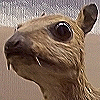
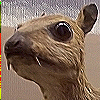
Program runs to the end. Now just fix it to do all the rows.

Changed region(s): [[0.0, 0.0, 0.03, 1.0]]

diff --git a/src/sharpener/sink.cpp b/src/sharpener/sink.cpp
@@ -19,6 +19,7 @@ void sink::entry() {
     std::cout << "Output image opened..." << endl;
 
     int i_rows = 0;
+    int j_rows = 0;
 
     data_ack.write(false);
 
@@ -34,6 +35,9 @@ void sink::entry() {
         input_reader.row_pointers[i_rows][0] = out_red.read();
         input_reader.row_pointers[i_rows][1] = out_green.read();
         input_reader.row_pointers[i_rows][2] = out_blue.read();
+        std::cout << "i = " << i_rows << "; Expected over calculated RGB:" << std::endl;
+        std::cout << "R = " << +reference_image.row_pointers[i_rows][0] << " G = " << +reference_image.row_pointers[i_rows][1] << " B = " << +reference_image.row_pointers[i_rows][2] << std::endl;
+        std::cout << "R = " << +input_reader.row_pointers[i_rows][0] << " G = " << +input_reader.row_pointers[i_rows][1] << " B = " << +input_reader.row_pointers[i_rows][2] << std::endl;
         data_ack.write(true);
         while (!(data_ready == false)) {wait();};
         data_ack.write(false);
@@ -42,6 +46,7 @@ void sink::entry() {
     std::cout << "Writing to file: " << outfile << std::endl;
     input_reader.write_png(outfile);
     std::cout << "Done filewriting!" << std::endl;
+    sc_stop();
     while (true) {wait();};
 
 }

diff --git a/src/sharpener/source.cpp b/src/sharpener/source.cpp
@@ -24,7 +24,6 @@ void source::entry() {
         while (!(data_req == true)) {wait(); };
         if (i_rows >= input_reader.get_height()) {
             std::cout << "Input stream is done! Source will return control to the kernel." << std::endl;
-            sc_stop();
             break;
         }
         in_red.write(input_reader.row_pointers[i_rows][0]);
@@ -36,4 +35,5 @@ void source::entry() {
         data_valid.write(false);
         wait();
     };
+    while (true) {wait();};
 };
